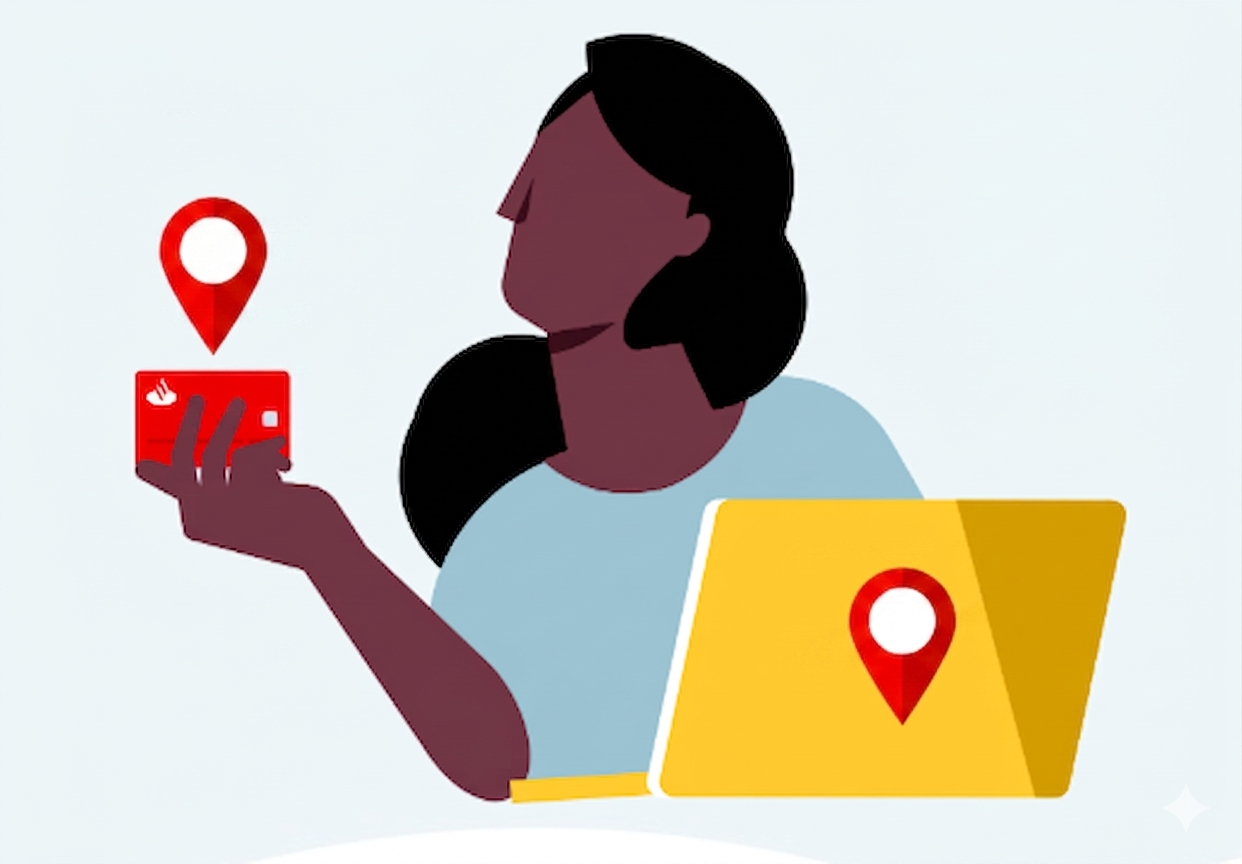
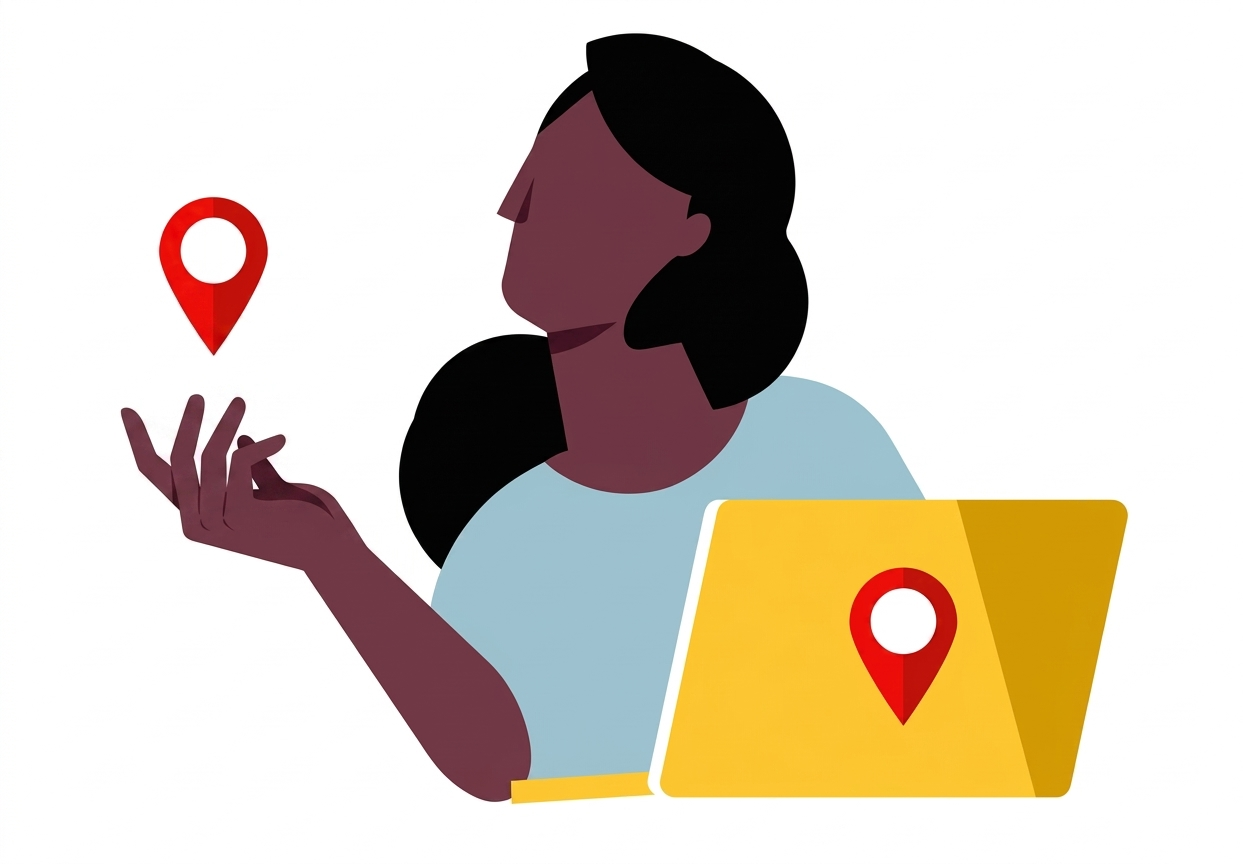
feat: implementa funcionalidade de busca de CEP com componentes de interface, estados de carregamento e estilização da integração com o mapa

diff --git a/src/app/features/cep/cep-search/cep-search.css b/src/app/features/cep/cep-search/cep-search.css
@@ -4,14 +4,14 @@
   padding: 30px;
   background-color: white;
   border-radius: 8px;
-  box-shadow: 0 4px 12px rgba(0,0,0,0.1);
-  font-family: sans-serif;
+  box-shadow: 0 4px 12px rgba(0, 0, 0, 0.1);
 }
 
 h2 {
   color: #333;
   margin-top: 0;
   margin-bottom: 20px;
+  font-weight: bold;
 }
 
 .search-box {
@@ -31,7 +31,7 @@ h2 {
 .search-box button {
   padding: 15px 30px;
   font-size: 16px;
-  background-color: #ec0000;
+  background-color: #D80200;
   color: white;
   font-weight: bold;
   border: none;
@@ -48,11 +48,39 @@ h2 {
   cursor: not-allowed;
 }
 
+.error-container {
+  display: flex;
+  flex-direction: column;
+  align-items: center;
+  margin-top: 30px;
+  animation: fadeIn 0.3s ease-in-out;
+}
+
+.error-image {
+  max-width: 180px;
+  margin-bottom: 20px;
+}
+
 .error-message {
-  color: #ec0000;
+  width: 100%;
+  text-align: center;
+  color: #D80200;
   font-weight: bold;
   background-color: #ffe6e6;
-  padding: 10px;
+  padding: 15px;
   border-radius: 4px;
-  border-left: 4px solid #ec0000;
+  border-left: 4px solid #D80200;
+  box-sizing: border-box;
+}
+
+@keyframes fadeIn {
+  from {
+    opacity: 0;
+    transform: translateY(-10px);
+  }
+
+  to {
+    opacity: 1;
+    transform: translateY(0);
+  }
 }

diff --git a/src/app/shared/components/loader/loader.component.css b/src/app/shared/components/loader/loader.component.css
@@ -13,21 +13,14 @@
 
 .loader-container {
   text-align: center;
-  font-family: sans-serif;
-  color: #ec0000;
+  font-weight: bold;
+  font-size: 1rem;
+  line-height: 1.2;
 }
 
-.spinner {
-  border: 4px solid #f3f3f3;
-  border-top: 4px solid #ec0000;
-  border-radius: 50%;
-  width: 50px;
-  height: 50px;
+.spinner-img {
+  width: 100px;
+  height: auto;
   animation: spin 1s linear infinite;
   margin: 0 auto 15px auto;
-}
-
-@keyframes spin {
-  0% { transform: rotate(0deg); }
-  100% { transform: rotate(360deg); }
 }

diff --git a/src/app/features/cep/cep-search/cep-search.ts b/src/app/features/cep/cep-search/cep-search.ts
@@ -1,4 +1,4 @@
-import { Component } from '@angular/core';
+import { Component, ChangeDetectorRef } from '@angular/core';
 import { Router } from '@angular/router';
 import { CepService } from '../../../core/services/cep';
 import { HttpClient } from '@angular/common/http';
@@ -26,6 +26,7 @@ export class CepSearch {
     private cepService: CepService,
     private http: HttpClient,
     private router: Router,
+    private cdr: ChangeDetectorRef
   ) {}
 
   pesquisarCep() {
@@ -39,7 +40,7 @@ export class CepSearch {
     }
 
     this.isLoading = true;
-    this.loadingMessage = 'Buscando informações do CEP...';
+    this.loadingMessage = 'Por favor, aguarde.';
 
     this.cepService.buscarCep(this.cep).subscribe({
       next: (res: any) => {
@@ -52,12 +53,18 @@ export class CepSearch {
         } else {
           this.isLoading = false;
           this.errorMessage = 'Endereço não encontrado para este CEP.';
+          this.cdr.detectChanges();
         }
       },
       error: (err) => {
         this.isLoading = false;
-        this.errorMessage = 'Erro ao buscar o CEP na nossa base de dados.';
+        if (err.error && err.error.message) {
+          this.errorMessage = err.error.message;
+        } else {
+          this.errorMessage = 'Erro ao buscar o CEP na nossa base de dados.';
+        }
         console.error(err);
+        this.cdr.detectChanges();
       },
     });
   }
@@ -80,12 +87,14 @@ export class CepSearch {
           });
         } else {
           this.errorMessage = 'Não foi possível encontrar as coordenadas para esse endereço.';
+          this.cdr.detectChanges();
         }
       },
       error: (err) => {
         this.isLoading = false;
         this.errorMessage = 'Erro ao buscar localização no mapa.';
         console.error(err);
+        this.cdr.detectChanges();
       },
     });
   }

diff --git a/src/styles.css b/src/styles.css
@@ -1,3 +1,14 @@
 /* You can add global styles to this file, and also import other style files */
 
 @import 'tailwindcss';
+
+body {
+  margin: 0;
+  font-family: 'Open Sans', Arial, sans-serif;
+  -webkit-font-smoothing: antialiased;
+  -moz-osx-font-smoothing: grayscale;
+}
+
+* {
+  box-sizing: border-box;
+}

diff --git a/src/app/features/cep/cep-search/cep-search.html b/src/app/features/cep/cep-search/cep-search.html
@@ -16,7 +16,9 @@
     <button (click)="pesquisarCep()" [disabled]="isLoading">Buscar</button>
   </div>
 
-  <div class="error-message" *ngIf="errorMessage">
-    {{ errorMessage }}
+  <div class="error-container" *ngIf="errorMessage">
+    <div class="error-message">
+      {{ errorMessage }}
+    </div>
   </div>
 </div>

diff --git a/src/app/features/home/home.css b/src/app/features/home/home.css
@@ -4,7 +4,6 @@
   align-items: center;
   min-height: calc(100vh - 60px);
   background-color: #F4F4F4;
-  font-family: 'Open Sans', Arial, sans-serif;
   padding: 20px;
 }
 
@@ -16,7 +15,7 @@
   background-color: #FFFFFF;
   padding: 50px;
   border-radius: 12px;
-  box-shadow: 0 8px 24px rgba(0,0,0,0.08);
+  box-shadow: 0 8px 24px rgba(0, 0, 0, 0.08);
   max-width: 1000px;
   width: 100%;
   gap: 40px;
@@ -54,7 +53,7 @@
 }
 
 .btn-primary {
-  background-color: #EC0000;
+  background-color: #D80200;
   color: white;
   border: none;
   padding: 16px 36px;
@@ -81,4 +80,3 @@
     padding: 30px;
   }
 }
-

diff --git a/src/app/features/cep/map-result/map-result.css b/src/app/features/cep/map-result/map-result.css
@@ -2,7 +2,6 @@
   max-width: 1000px;
   margin: 0 auto;
   padding: 20px;
-  font-family: sans-serif;
 }
 
 .result-header {
@@ -22,7 +21,7 @@
 .btn-voltar {
   background: none;
   border: none;
-  color: #ec0000;
+  color: #D80200;
   font-weight: bold;
   cursor: pointer;
   padding: 0;
@@ -39,6 +38,6 @@
   width: 100%;
   border-radius: 8px;
   overflow: hidden;
-  box-shadow: 0 4px 12px rgba(0,0,0,0.1);
+  box-shadow: 0 4px 12px rgba(0, 0, 0, 0.1);
   border: 1px solid #ddd;
 }

diff --git a/src/app/shared/components/header/header.component.css b/src/app/shared/components/header/header.component.css
@@ -1,8 +1,8 @@
 .main-header {
-  background-color: #ec0000;
+  background-color: #D80200;
   color: white;
   padding: 15px 20px;
-  box-shadow: 0 2px 4px rgba(0,0,0,0.2);
+  box-shadow: 0 2px 4px rgba(0, 0, 0, 0.2);
 }
 
 .header-content {
@@ -27,5 +27,4 @@ h1 {
   margin: 0;
   font-size: 20px;
   font-weight: 600;
-  font-family: sans-serif;
 }

diff --git a/src/app/shared/components/header/header.component.html b/src/app/shared/components/header/header.component.html
@@ -1,6 +1,8 @@
 <header class="main-header">
   <div class="header-content" (click)="goHome()">
-    <div class="logo"></div>
+    <div class="logo">
+      <img src="assets/logo-header.png" alt="Logo Santander" />
+    </div>
     <h1>Santander Agências</h1>
   </div>
 </header>

diff --git a/src/index.html b/src/index.html
@@ -6,6 +6,9 @@
     <base href="/" />
     <meta name="viewport" content="width=device-width, initial-scale=1" />
     <link rel="icon" type="image/x-icon" href="favicon.ico" />
+    <link rel="preconnect" href="https://fonts.googleapis.com">
+    <link rel="preconnect" href="https://fonts.gstatic.com" crossorigin>
+    <link href="https://fonts.googleapis.com/css2?family=Open+Sans:ital,wght@0,300..800;1,300..800&display=swap" rel="stylesheet">
   </head>
   <body>
     <app-root></app-root>

diff --git a/src/app/shared/components/loader/loader.component.html b/src/app/shared/components/loader/loader.component.html
@@ -1,6 +1,6 @@
 <div class="loader-overlay" *ngIf="isLoading">
   <div class="loader-container">
-    <div class="spinner"></div>
+    <img src="assets/load-santander.png" alt="Carregando..." class="spinner-img">
     <p>{{ message }}</p>
   </div>
 </div>